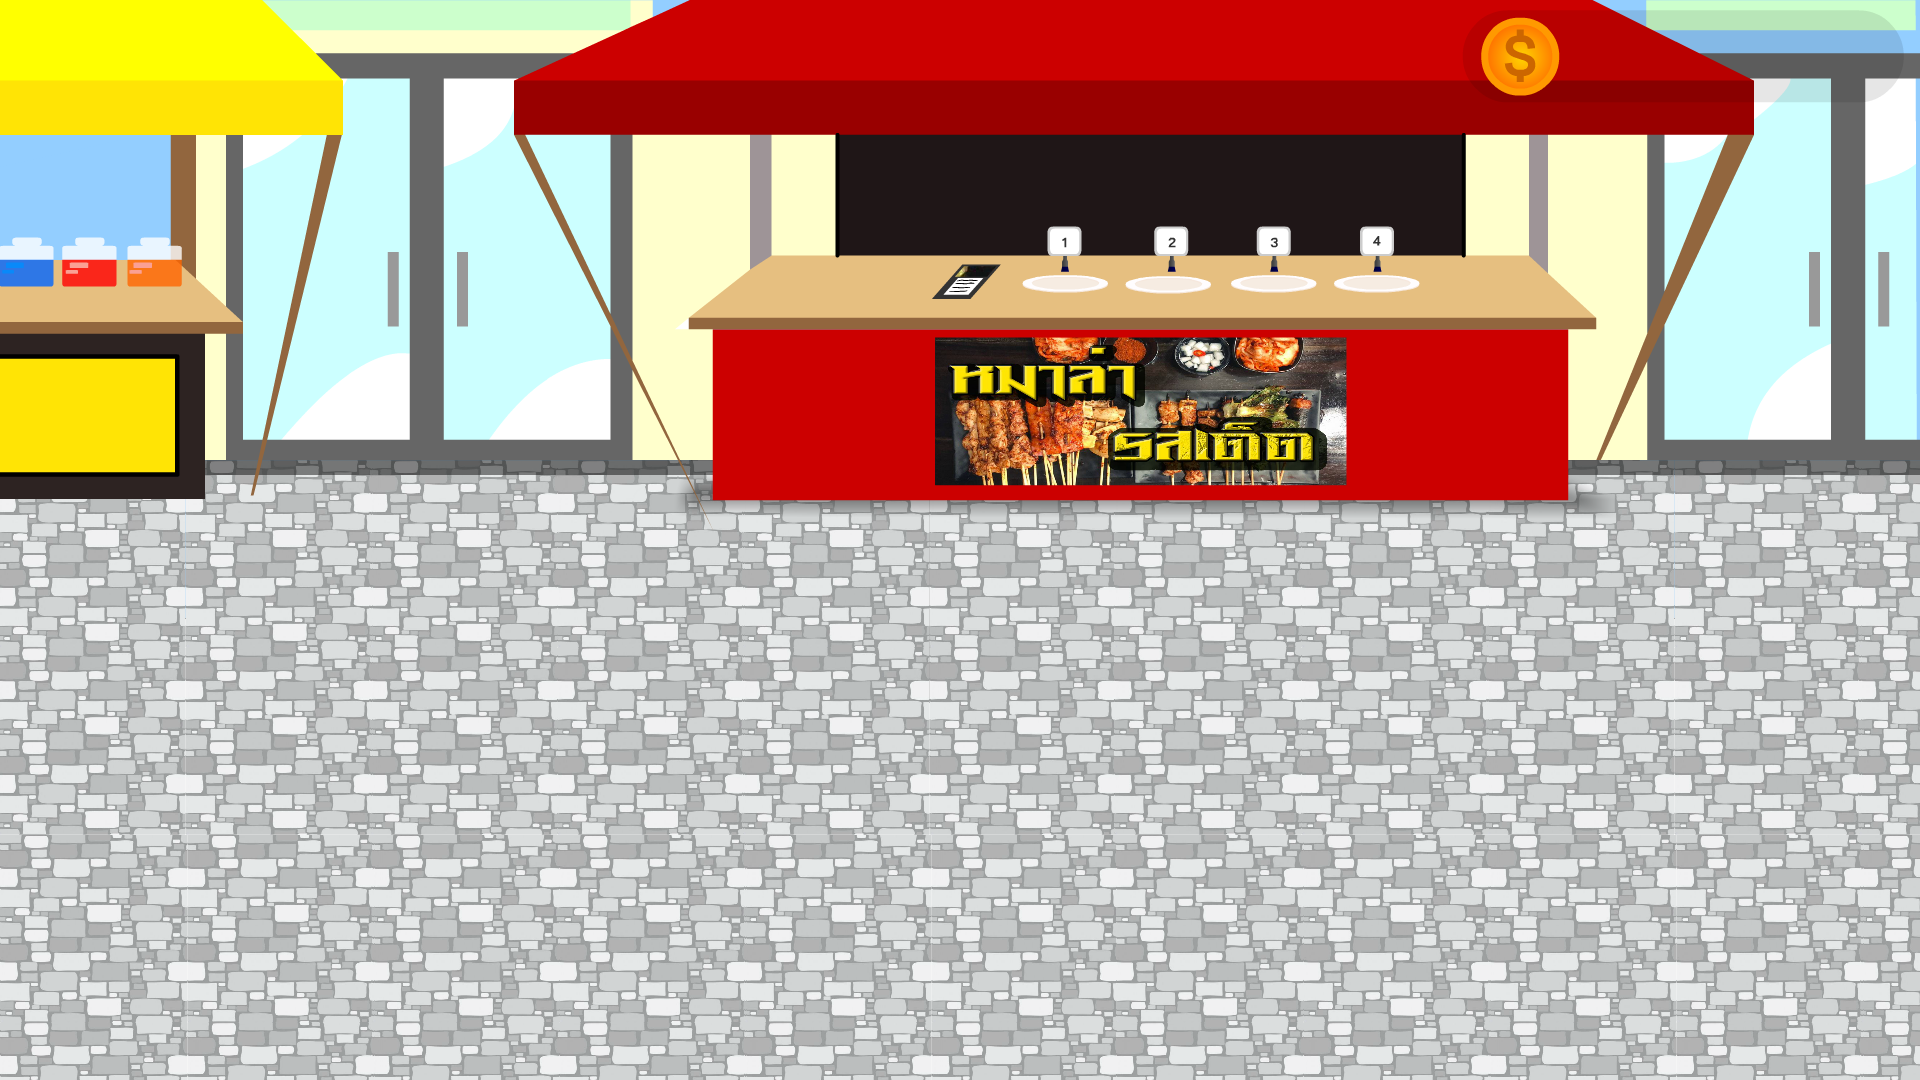
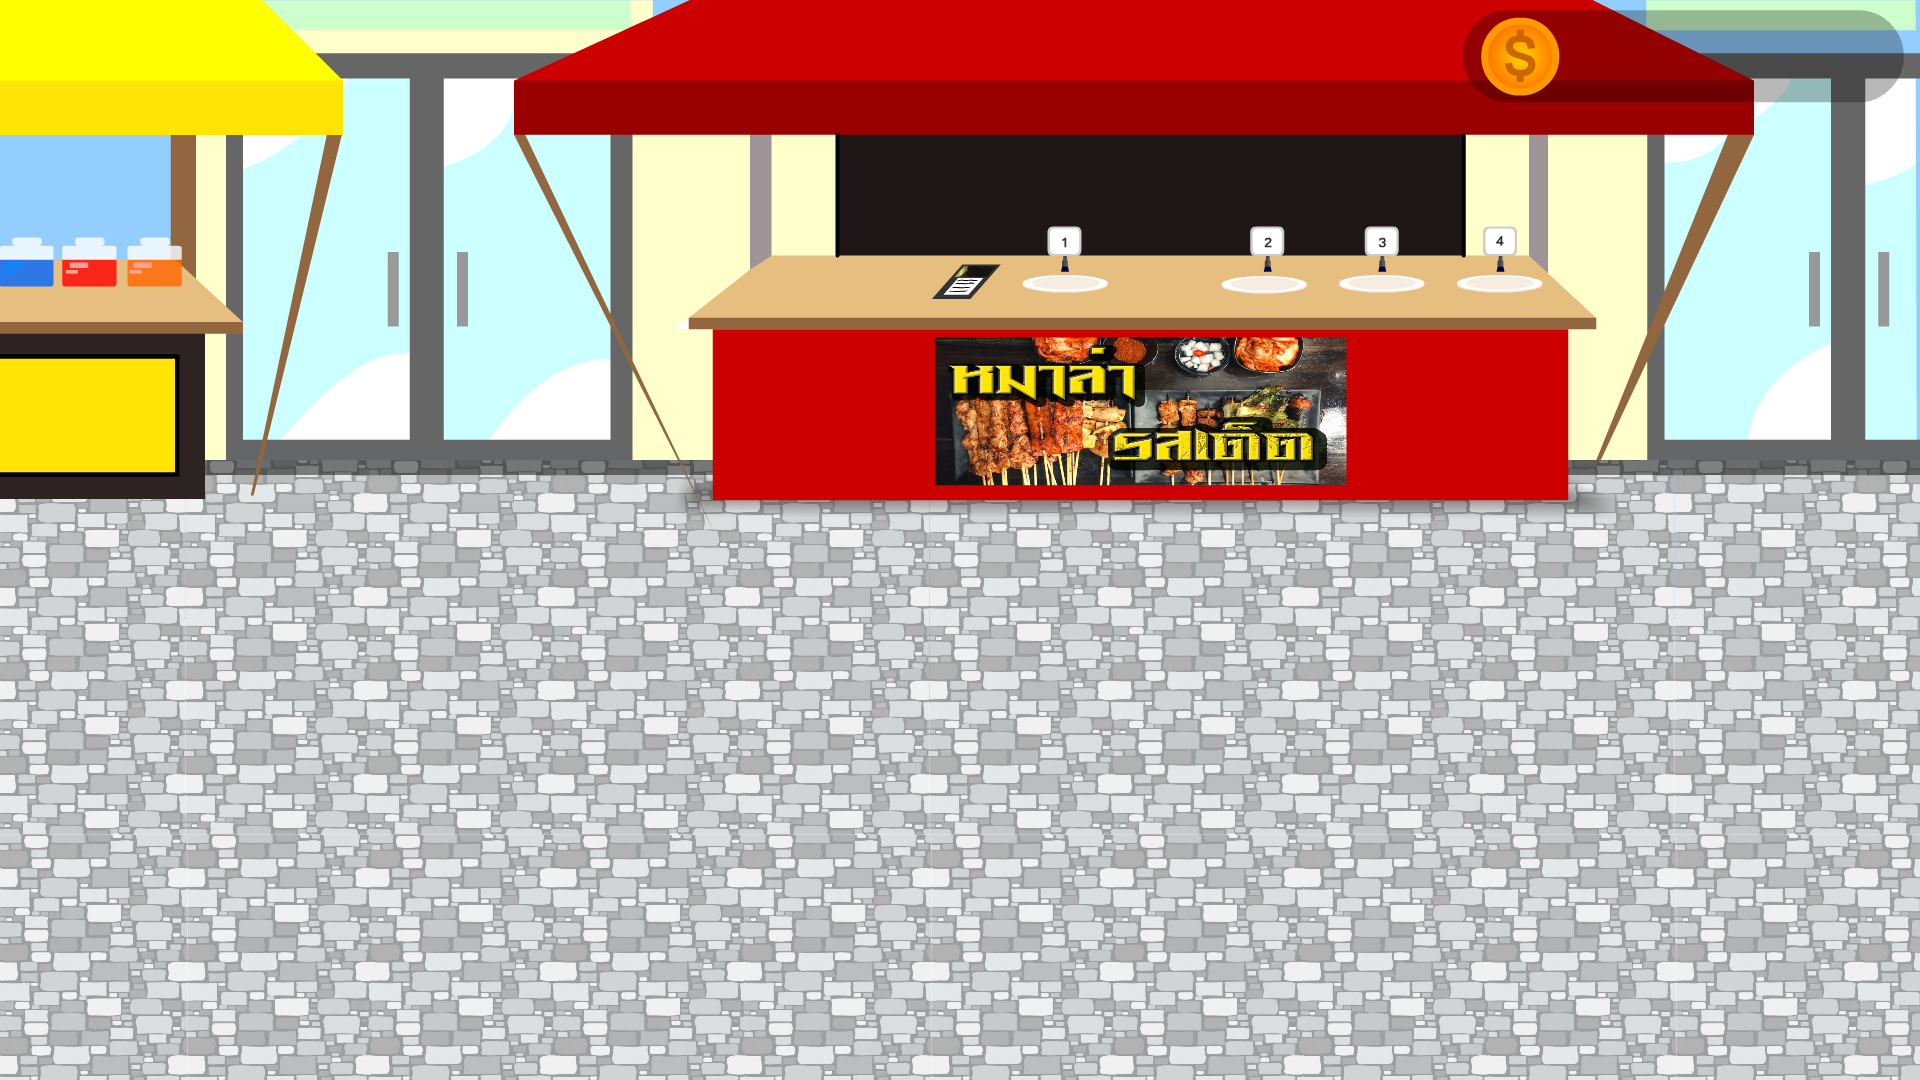
:zap:  show GameOver

Changed region(s): [[0.75, 0.0, 1.0, 0.0917], [0.5938, 0.2139, 0.8125, 0.275]]

diff --git a/MalaDash/src/maladash/src/components/Controllers/CustomersController.java b/MalaDash/src/maladash/src/components/Controllers/CustomersController.java
@@ -8,8 +8,7 @@ import java.awt.event.MouseEvent;
 import java.awt.event.MouseListener;
 import java.awt.event.MouseMotionListener;
 import java.util.ArrayList;
-import javax.swing.SwingUtilities;
-import javax.swing.Timer;
+import javax.swing.*;
 import maladash.src.components.Models.CustomersModel;
 import maladash.src.components.Views.CustomersView;
 
@@ -32,6 +31,7 @@ public class CustomersController implements ActionListener, MouseMotionListener,
     private int index;
     private static final int LIMIT = 3;
     private PlayerController player;
+    private GameController gameCon;
 
     private double pivot;
     private static int people;
@@ -54,7 +54,14 @@ public class CustomersController implements ActionListener, MouseMotionListener,
         }
     }
 
-    
+    public GameController getGameCon() {
+        return gameCon;
+    }
+
+    public void setGameCon(GameController gameCon) {
+        this.gameCon = gameCon;
+    }
+
     public ArrayList<HeartController> getHeats() {
         return heats;
     }
@@ -63,8 +70,6 @@ public class CustomersController implements ActionListener, MouseMotionListener,
         this.heats = heats;
     }
 
-    
-    
     public CustomersModel getModel() {
         return model;
     }
@@ -161,11 +166,10 @@ public class CustomersController implements ActionListener, MouseMotionListener,
         this.player = player;
     }
 
-    
     @Override
     public void actionPerformed(ActionEvent ae) {
         if (ae.getSource().equals(tm)) {
-            
+
             time--;
             if (!model.getCustomers().isSit()) {
                 if (time <= 20) {
@@ -182,37 +186,51 @@ public class CustomersController implements ActionListener, MouseMotionListener,
                         view.setImg(model.getImgSaddest_2());
                     }
                 }
-                if (time == 0) {
+                if (time >= 0) {
                     System.out.println("dead");
                     view.setVisible(false);
 
                     tm.stop();
-                    
-                    player.getModel().getPlayer().setHeart( player.getModel().getPlayer().getHeart() - 1);
-                    
-                    if(player.getModel().getPlayer().getHeart() == 4){
+
+                    player.getModel().getPlayer().setHeart(player.getModel().getPlayer().getHeart() - 1);
+
+                    if (player.getModel().getPlayer().getHeart() == 4) {
                         heats.get(player.getModel().getPlayer().getHeart()).getView().setVisible(false);
-                    }else if(player.getModel().getPlayer().getHeart() == 3){
+                    } else if (player.getModel().getPlayer().getHeart() == 3) {
                         heats.get(player.getModel().getPlayer().getHeart()).getView().setVisible(false);
-                    }else if(player.getModel().getPlayer().getHeart() == 2){
+                    } else if (player.getModel().getPlayer().getHeart() == 2) {
                         heats.get(player.getModel().getPlayer().getHeart()).getView().setVisible(false);
-                    }else if(player.getModel().getPlayer().getHeart() == 1){
+                    } else if (player.getModel().getPlayer().getHeart() == 1) {
                         heats.get(player.getModel().getPlayer().getHeart()).getView().setVisible(false);
-                    }else if(player.getModel().getPlayer().getHeart() == 0){
+                    } else if (player.getModel().getPlayer().getHeart() == 0) {
                         heats.get(player.getModel().getPlayer().getHeart()).getView().setVisible(false);
+                        GameOverController over = new GameOverController();
+                        over.getView().getScore().setText("" + game.getModel().getMoney());
+                        over.setGame(gameCon);
+
+                        //Short Variable
+                        JFrame gameFrame = gameCon.getView().getFrame();
+
+                        //Change ContentPane from MainMenu to MainGame
+                        gameFrame.setContentPane(over.getView());
+                        gameFrame.setSize(1920, 1080);
+
+                        gameFrame.getContentPane().revalidate();
+                        gameFrame.getContentPane().repaint();
+                        gameFrame.setVisible(true);
                     }
-                    
+
                     totalCustomers--;
                     csConList.set(index, null);
                     csSelf.getTm2().start();
-                    
+
                 }
             } else {
-                 System.out.println("[Customer]: " + Math.random());
-                if( model.getCustomers().isEat() && !model.getCustomers().isDone()){
-                        tableControllers.get(whichTable).eating();
-                    }
-                if((time == 0) && model.getCustomers().isEat()){
+                System.out.println("[Customer]: " + Math.random());
+                if (model.getCustomers().isEat() && !model.getCustomers().isDone()) {
+                    tableControllers.get(whichTable).eating();
+                }
+                if ((time == 0) && model.getCustomers().isEat()) {
                     model.getCustomers().setDone(true);
                     tableControllers.get(whichTable).getTableModel().getTable().setDirty(true);
                     setTime((int) (Math.random() * 10) + 30);
@@ -222,7 +240,7 @@ public class CustomersController implements ActionListener, MouseMotionListener,
                         model.getCustomers().setReady(true); // พร้อมสั่งอาหาร
                         model.getCustomers().setLvAngry(0);
                         tableControllers.get(whichTable).handUp(model.getCustomers().getLvAngry());
-                    }else if(model.getCustomers().isDone()){
+                    } else if (model.getCustomers().isDone()) {
                         model.getCustomers().setLvAngry(0);
                         tableControllers.get(whichTable).letDirty(model.getCustomers().getLvAngry());
                     }
@@ -231,7 +249,7 @@ public class CustomersController implements ActionListener, MouseMotionListener,
                     if (model.getCustomers().isReady() && !model.getCustomers().isEat()) {
                         model.getCustomers().setLvAngry(1);
                         tableControllers.get(whichTable).handUp(model.getCustomers().getLvAngry());
-                    }else if(model.getCustomers().isDone()){
+                    } else if (model.getCustomers().isDone()) {
                         model.getCustomers().setLvAngry(1);
                         tableControllers.get(whichTable).letDirty(model.getCustomers().getLvAngry());
                     }
@@ -240,7 +258,7 @@ public class CustomersController implements ActionListener, MouseMotionListener,
                     if (model.getCustomers().isReady() && !model.getCustomers().isEat()) {
                         model.getCustomers().setLvAngry(2);
                         tableControllers.get(whichTable).handUp(model.getCustomers().getLvAngry());
-                    }else if(model.getCustomers().isDone()){
+                    } else if (model.getCustomers().isDone()) {
                         model.getCustomers().setLvAngry(2);
                         tableControllers.get(whichTable).letDirty(model.getCustomers().getLvAngry());
                     }
@@ -271,6 +289,9 @@ public class CustomersController implements ActionListener, MouseMotionListener,
                 csCon.setTableControllers(tableControllers);
                 csCon.setPlayer(player);
                 csCon.setHeats(heats);
+                csCon.setGame(game);
+                csCon.setGameCon(gameCon);
+                
 
                 csCon.setCsSelf(this);
 

diff --git a/MalaDash/src/maladash/src/components/Views/GameOverView.java b/MalaDash/src/maladash/src/components/Views/GameOverView.java
@@ -9,8 +9,19 @@ public class GameOverView extends JPanel{
     //Coponents
     private Image img;
     private JButton tryagain, exited;
+    private JLabel score, highScore;
 
     public GameOverView() {
+        
+        score = new JLabel("0");
+        score.setFont(new Font("Serif", Font.PLAIN, 72));
+        score.setSize(200, 100);
+        score.setBounds(1200, 200, 200, 100);
+        
+        highScore = new JLabel("0");
+        highScore.setFont(new Font("Serif", Font.PLAIN, 72));
+        highScore.setSize(200, 100);
+        highScore.setBounds(1200, 400, 200, 100);
         
         tryagain = new JButton("Try Agian");
         
@@ -62,6 +73,23 @@ public class GameOverView extends JPanel{
     public void setExited(JButton exited) {
         this.exited = exited;
     }
+
+    public JLabel getScore() {
+        return score;
+    }
+
+    public void setScore(JLabel score) {
+        this.score = score;
+    }
+
+    public JLabel getHighScore() {
+        return highScore;
+    }
+
+    public void setHighScore(JLabel highScore) {
+        this.highScore = highScore;
+    }
+
 
     
     

diff --git a/MalaDash/src/maladash/src/components/Controllers/MalaController.java b/MalaDash/src/maladash/src/components/Controllers/MalaController.java
@@ -25,11 +25,11 @@ public class MalaController implements Runnable{
         if(numTable == 1){
             malaView.setBounds(1025, 270, 75, 25);
         }else if(numTable == 2){
-            malaView.setBounds(1129, 270, 75, 25);
+            malaView.setBounds(1225, 270, 75, 25);
         }else if(numTable == 3){
-            malaView.setBounds(1233, 270, 75, 25);
+            malaView.setBounds(1340, 270, 75, 25);
         }else if(numTable == 4){
-            malaView.setBounds(1337, 270, 75, 25);
+            malaView.setBounds(1460, 270, 75, 25);
         }
         malaView.setOpaque(false);
         malaView.setVisible(false);

diff --git a/MalaDash/src/maladash/src/components/Controllers/MainGameController.java b/MalaDash/src/maladash/src/components/Controllers/MainGameController.java
@@ -22,7 +22,7 @@ public class MainGameController {
     private GameController game;
     private ArrayList<HeartController> hearts;
 
-    public MainGameController() {
+    public void init() {
         //Initate Model
         model = new MainGameModel();
         view = new MainGameView();
@@ -115,7 +115,8 @@ public class MainGameController {
         customers.setTableControllers(tableControllers);
         customers.setPlayer(player);
         customers.setHeats(hearts);
-        customers.setGame(this);  
+        customers.setGame(this);
+        customers.setGameCon(game);
         customers.getTm2().start();
 
         

diff --git a/MalaDash/src/maladash/src/components/Controllers/GameOverController.java b/MalaDash/src/maladash/src/components/Controllers/GameOverController.java
@@ -31,7 +31,8 @@ public class GameOverController implements ActionListener{
         
         view.add(view.getTryagain());
         view.add(view.getExited());
-        
+        view.add(view.getHighScore());
+        view.add(view.getScore());
         
         
         view.getTryagain().addActionListener(this);

diff --git a/MalaDash/src/maladash/src/components/Controllers/MainMenuController.java b/MalaDash/src/maladash/src/components/Controllers/MainMenuController.java
@@ -60,7 +60,7 @@ public class MainMenuController implements ActionListener {
             mainGame = new MainGameController();
             
             mainGame.setGame(game);
-
+            mainGame.init();
             //Short Variable
             JFrame gameFrame = game.getView().getFrame();
 
